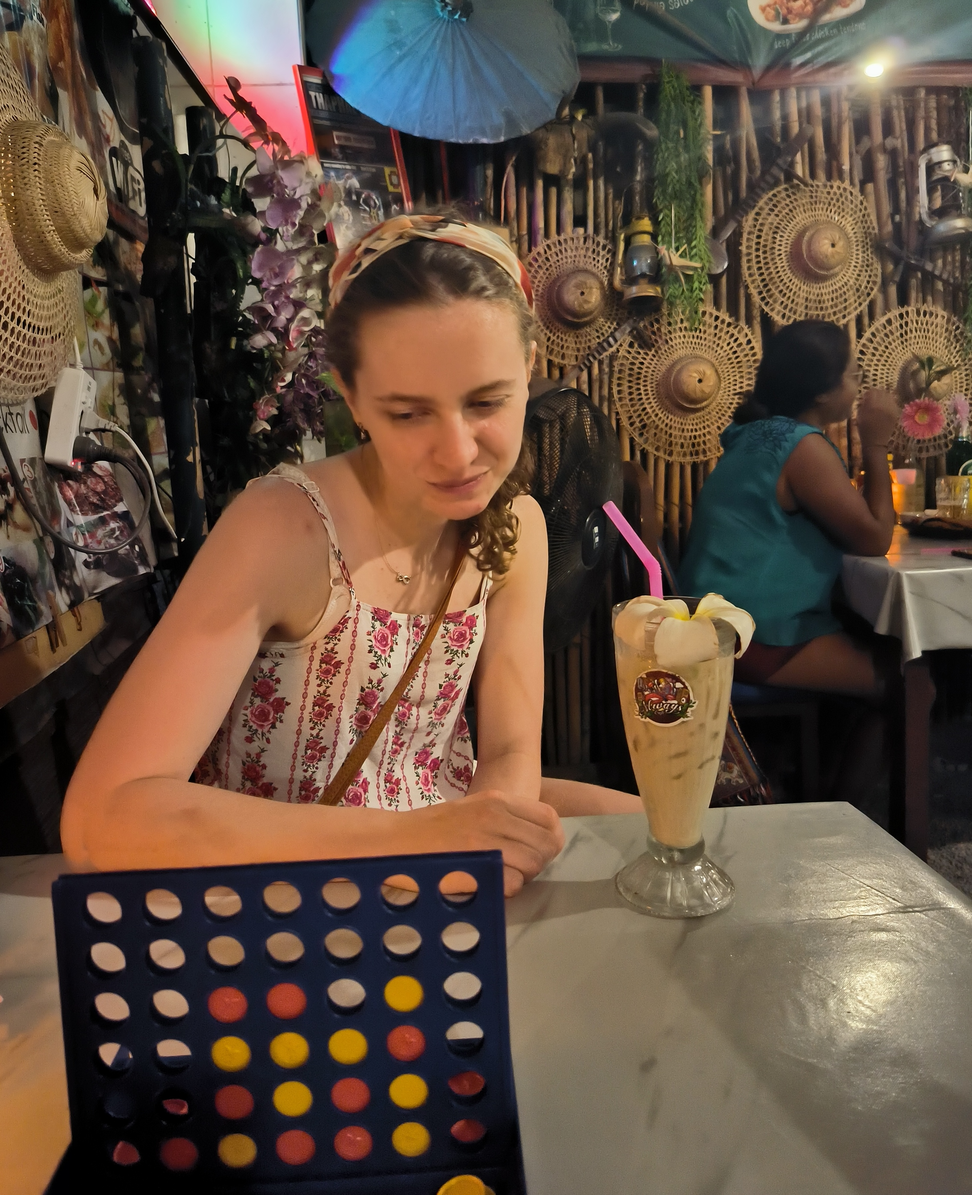
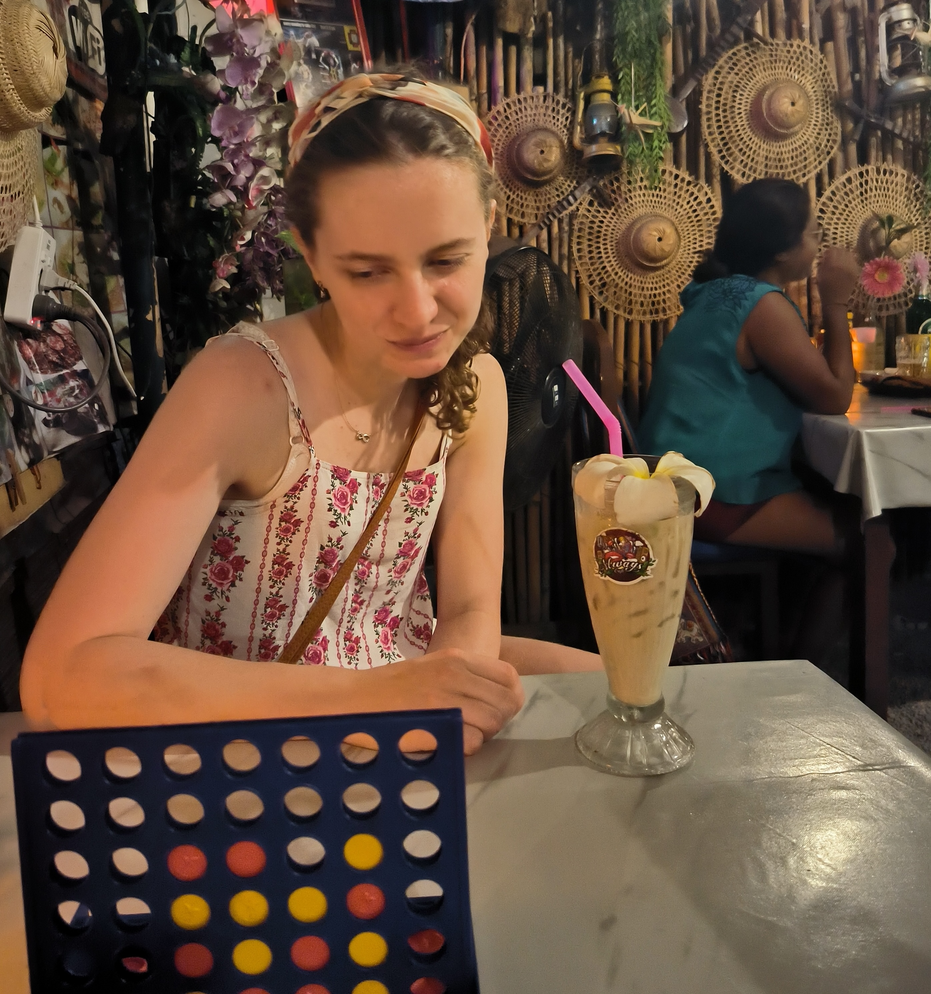
hopefully pic more mobile friendly now

diff --git a/css/style.css b/css/style.css
@@ -69,7 +69,7 @@ a:hover {
   margin: 0 0 20px 20px;
   box-shadow: 0 2px 8px rgba(0,0,0,0.15);
   position: relative;
-  top: -70px; 
+  top: -45px; 
 }
 
 @media screen and (max-width: 768px) {
